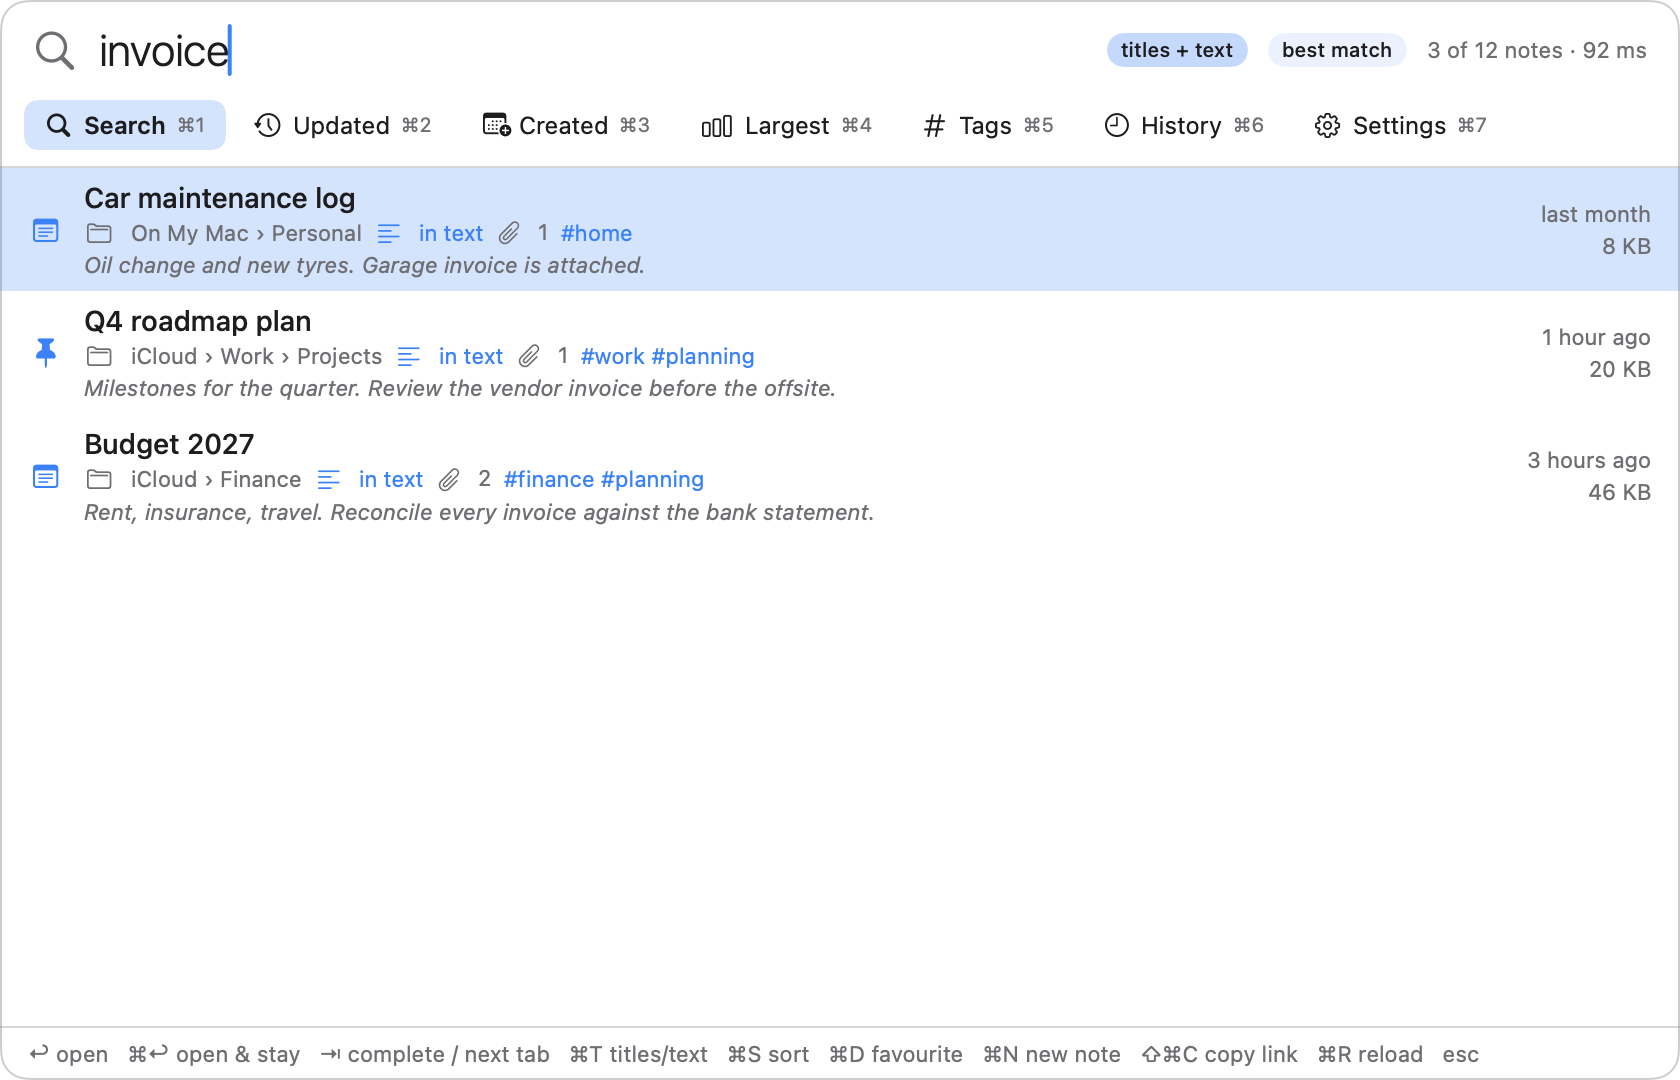
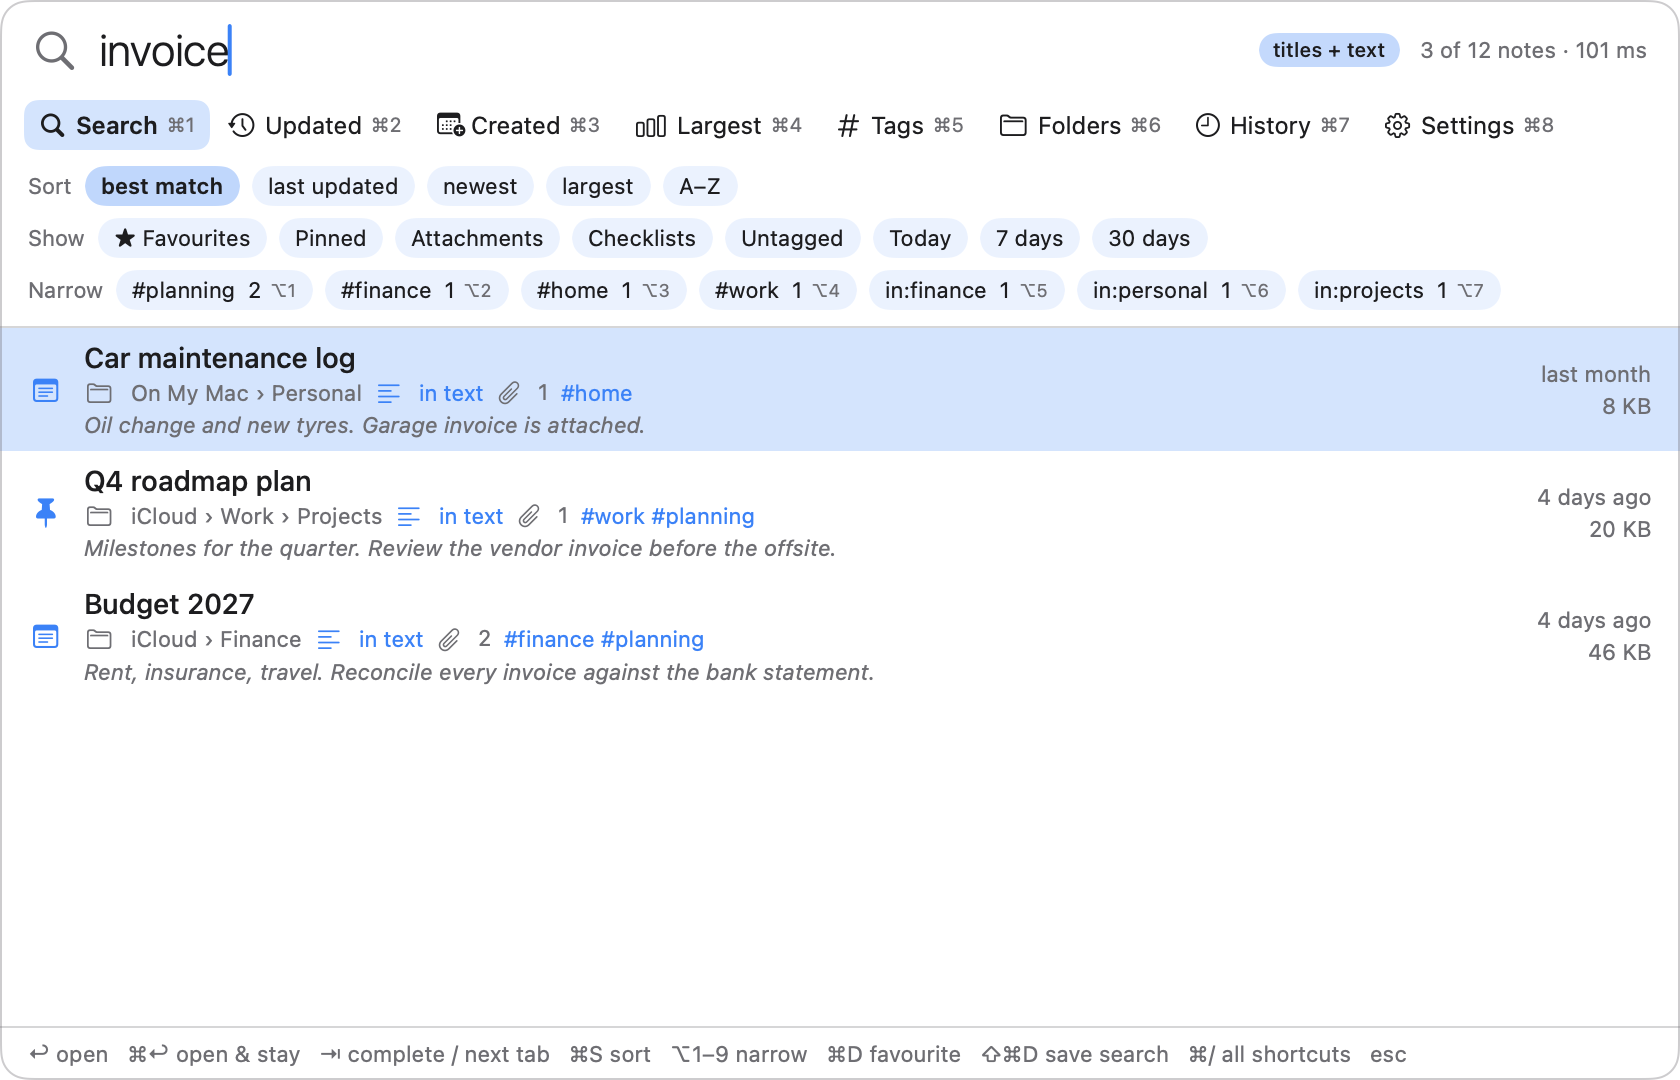
Document 1.8: sort/filter/narrow buttons, Folders tab, shortcut list; refresh screenshots

diff --git a/docs/tabs-and-settings.md b/docs/tabs-and-settings.md
@@ -2,7 +2,7 @@
 
 ## Tabs
 
-Switch tabs with **⌘1 … ⌘7**, by clicking, or with **Tab** when no autocomplete suggestion is showing.
+Switch tabs with **⌘1 … ⌘8**, by clicking, or with **Tab** when no autocomplete suggestion is showing.
 
 | Tab | Shows |
 | --- | --- |
@@ -11,8 +11,9 @@ Switch tabs with **⌘1 … ⌘7**, by clicking, or with **Tab** when no autocom
 | **Created** (⌘3) | The most recently created notes |
 | **Largest** (⌘4) | The largest notes |
 | **Tags** (⌘5) | Every hashtag with the number of notes that use it |
-| **History** (⌘6) | Your past searches *(1.3+)* |
-| **Settings** (⌘7) | Options, below *(⌘6 before 1.3)* |
+| **Folders** (⌘6) | Every folder with the number of notes in it *(1.8+)* |
+| **History** (⌘7) | Your past searches *(1.3+; ⌘6 before 1.8)* |
+| **Settings** (⌘8, or **⌘,**) | Options, below *(⌘7 before 1.8)* |
 
 The popup always opens on the Search tab with an empty search box.
 
@@ -50,6 +51,13 @@ between most used first and A–Z *(1.4+)*.
 
 *`#ideas` and `#work` ticked: 1 note has both, 7 notes have at least one.*
 
+### Folders *(1.8+)*
+
+Every folder, with nested folders shown as "Work › Projects", and the number of notes in it including its
+sub-folders. Type to filter the list. Press **Return** to list that folder's notes on the Search tab.
+
+![Folders tab](images/folders-tab.png)
+
 ### History *(1.3+)*
 
 Your last 50 searches, newest first. A search is remembered when you open a note from it, or when you close the
@@ -75,6 +83,8 @@ one.
 | **Search inside note text** | Also match plain words against the text of your notes. See [Privacy](privacy.md) *(1.3+)* | Off |
 | **Show the matching line for text matches** | While searching inside note text, shows the one line that matched under each result *(1.4+)* | Off |
 | **Added to every search** | Search terms applied to every list, for example `-in:archive` to hide a folder. See [Search syntax](search-syntax.md#hiding-a-folder-or-an-account-everywhere-17) *(1.7+)* | Empty |
+| **Hide locked notes** | Keeps the titles of locked notes out of every list *(1.8+)* | Off |
+| **Open the popup where I left it** | Off: the popup opens centred on the screen the pointer is on. On: it stays where you last dragged it *(1.8+)* | Off |
 | **Close popup after opening a note** | Off keeps the popup open after Return | On |
 | **Hide popup when it loses focus** | Off keeps the popup visible when you click elsewhere | On |
 | **Launch at login** | Start NoteSearch when you log in | Off |
@@ -82,6 +92,10 @@ one.
 | **Remember searches in the History tab** | Off stops new searches being remembered *(1.3+)* | On |
 | **Search history → Clear history** | Forgets all remembered searches *(1.3+)* | |
 | **Notes missing? → Copy diagnostics** | Copies a short report of counts about your Notes library to the clipboard, to paste into a bug report. It contains no note titles, folder names or account names *(1.2+)* | |
+
+**All shortcuts** *(1.8+)*: press **⌘/** in the popup for a list of every key.
+
+![Shortcut list](images/shortcuts.png)
 
 **Popup size** *(1.7+)*: drag any edge of the popup to resize it. The size is remembered.
 

diff --git a/docs/keyboard-shortcuts.md b/docs/keyboard-shortcuts.md
@@ -16,10 +16,12 @@
 | **⌘Return** | Open the selected note and keep the popup on screen |
 | **Tab** | Accept the first autocomplete suggestion. With no suggestions: go to the next tab |
 | **⇧Tab** | Go to the previous tab |
-| **⌘1 … ⌘7** | Search, Updated, Created, Largest, Tags, History, Settings *(before 1.3: ⌘1 … ⌘6, without History)* |
+| **⌘1 … ⌘8** | Search, Updated, Created, Largest, Tags, Folders, History, Settings *(before 1.8 there is no Folders tab, so History is ⌘6 and Settings ⌘7)* |
 | **⌘,** | Settings |
 | **⌘T** | Switch between matching titles only and titles plus note text *(1.3+)* |
-| **⌘S** | Change the sort order: best match, last updated, newest, largest *(1.4+)* |
+| **⌘S** | Change the sort order: best match, last updated, newest, largest, A–Z *(1.4+; A–Z from 1.8)* |
+| **⌥1 … ⌥9** | Apply the first to ninth **Narrow** button above the results *(1.8+)* |
+| **⌘/** | Show or hide the list of all shortcuts *(1.8+)* |
 | **⌘D** | Star or unstar the selected note as a favourite *(1.4+)* |
 | **⇧⌘D** | Save the search you are typing. It appears starred at the top of the History tab *(1.7+)* |
 | **⌘N** | Create a new note in Notes, titled with whatever you have typed. macOS asks for permission the first time *(1.4+)* |
@@ -42,6 +44,12 @@ The usual text shortcuts (⌘A, ⌘C, ⌘V, ⌘X, ⌘Z) work in the search box.
 | **⌥Return** | Search for notes that have **any** of the ticked hashtags *(1.3+)* |
 | **⌘S** | Switch the list between most used first and A–Z *(1.4+)* |
 
+## On the Folders tab *(1.8+)*
+
+| Shortcut | Action |
+| --- | --- |
+| **Return** | List the notes in the highlighted folder and its sub-folders |
+
 ## On the History tab *(1.3+)*
 
 | Shortcut | Action |
@@ -58,3 +66,9 @@ The usual text shortcuts (⌘A, ⌘C, ⌘V, ⌘X, ⌘Z) work in the search box.
 | Right-click | Menu with Search Notes, Reload Notes, Settings and Quit |
 
 Opening NoteSearch again from Applications or Spotlight also shows the popup.
+
+## From other apps *(1.8+)*
+
+Opening a link of the form `notesearch://search?q=budget` shows the popup with that search already typed. Use it
+from Raycast, Alfred, Shortcuts or the `open` command. Spaces are written `%20` and `#` is written `%23`, as in
+`notesearch://search?q=plan%20%23work`.

diff --git a/README.md b/README.md
@@ -31,6 +31,8 @@ Step-by-step instructions with pictures are in [Getting started](docs/getting-st
 - **Date filters, sort order, favourites** and a **new-note shortcut** *(1.4+)*.
 - **Saved searches**, filters for size, untagged and shared notes, a text-size setting, a resizable popup and a
   one-click update download *(1.7+)*.
+- **Sort, Show and Narrow buttons** above the results, a **Folders tab**, and a list of every shortcut on
+  ⌘/ *(1.8+)*.
 - **Private**: by default only titles and metadata are read. Note text is read only if you turn that on, is kept
   in memory only, and is never saved, and is shown only if you ask for the matching line. The only network use is an optional daily
   check for a newer version, which sends nothing about you or your notes.
@@ -46,7 +48,7 @@ Step-by-step instructions with pictures are in [Getting started](docs/getting-st
 | ![Search inside note text](docs/images/text.png) <br> Searching inside note text, when turned on | ![Selecting several hashtags](docs/images/tags-multi.png) <br> Ticking several hashtags shows how many notes have all or any |
 | ![Notes changed in the last week](docs/images/dates.png) <br> Date filter: `updated:7d` | ![The matching line of text](docs/images/snippet.png) <br> Optional: the line of text that matched |
 | ![Search history](docs/images/history.png) <br> History of past searches | ![Tags tab](docs/images/tags.png) <br> Every hashtag with its note count (Midnight theme) |
-| ![Settings](docs/images/settings.png) <br> Settings (Notes Yellow theme) | |
+| ![Settings](docs/images/settings.png) <br> Settings (Notes Yellow theme) | ![Sort, Show and Narrow buttons](docs/images/buttons.png) <br> One-click sorting, filters and narrowing |
 
 ## Documentation
 

diff --git a/docs/search-syntax.md b/docs/search-syntax.md
@@ -59,9 +59,29 @@ Only file names are used, never what is inside the files.
 
 ![Notes changed in the last week](images/dates.png)
 
+## Buttons above the results *(1.8+)*
+
+![Sort, Show and Narrow buttons](images/buttons.png)
+
+*`plan`, sorted oldest first, with the Narrow buttons offering the hashtags and folders found in those results.*
+
+Three rows of buttons sit above the results. Each one only adds or removes a term in the search box, so you can
+always see, and edit, what it did.
+
+- **Sort:** best match, last updated, newest, largest, A–Z. Click the active one again to reverse it; an arrow
+  shows the direction, so "newest ↑" lists the oldest note first. Best match cannot be reversed.
+- **Show:** Favourites, Pinned, Attachments, Checklists, Untagged, Today, 7 days, 30 days. Click to turn one on,
+  click again to turn it off. They combine with each other and with what you typed. The three date buttons
+  replace one another.
+- **Narrow:** appears once you have typed something. It lists the hashtags and folders found most often in the
+  current results, each with the number of notes it would leave. Click one, or press **⌥1 … ⌥9**, to keep only
+  those notes.
+
+The Sort row is on the Search tab only; Updated, Created and Largest have a fixed order.
+
 ## Sort order *(1.4+)*
 
-The Search tab normally lists the best match first. Press **⌘S**, or click the sort label at the top right, to
+The Search tab normally lists the best match first. Press **⌘S**, or click a **Sort** button (before 1.8: the sort label at the top right), to
 switch between **best match**, **last updated**, **newest** (most recently created) and **largest**. Your choice
 is remembered.
 

diff --git a/docs/troubleshooting.md b/docs/troubleshooting.md
@@ -13,7 +13,7 @@ after updating the app.
 
 ## The global shortcut does nothing
 
-- Another app may be using the same combination. Open Settings (**⌘7**, or ⌘6 before version 1.3) and look for a red message under
+- Another app may be using the same combination. Open Settings (**⌘,**) and look for a red message under
   **Global shortcut**, then record a different one.
 - Check the shortcut is not disabled in Settings.
 - Make sure NoteSearch is running: its icon should be in the menu bar.
@@ -38,7 +38,7 @@ icon may be hidden behind the notch; the shortcut still works.
 - **Notes in Recently Deleted are not listed.**
 - Notes that belong to a mail account (Gmail, Exchange, IMAP) rather than iCloud or On My Mac are not supported.
 
-If notes are still missing, open Settings (**⌘7**), click **Copy diagnostics**, and paste the result into a
+If notes are still missing, open Settings (**⌘,**), click **Copy diagnostics**, and paste the result into a
 [bug report](../../../issues/new/choose). The report contains only counts, no titles or names.
 
 ## A note I just created or renamed is missing
@@ -75,7 +75,7 @@ The first time you press **⌘N**, macOS asks whether NoteSearch may control Not
 
 ## How do I turn off the update check?
 
-Open Settings (**⌘7**) and turn off **Check for updates once a day**. See [Privacy](privacy.md#network-use).
+Open Settings (**⌘,**) and turn off **Check for updates once a day**. See [Privacy](privacy.md#network-use).
 
 ## Can it search inside notes?
 
